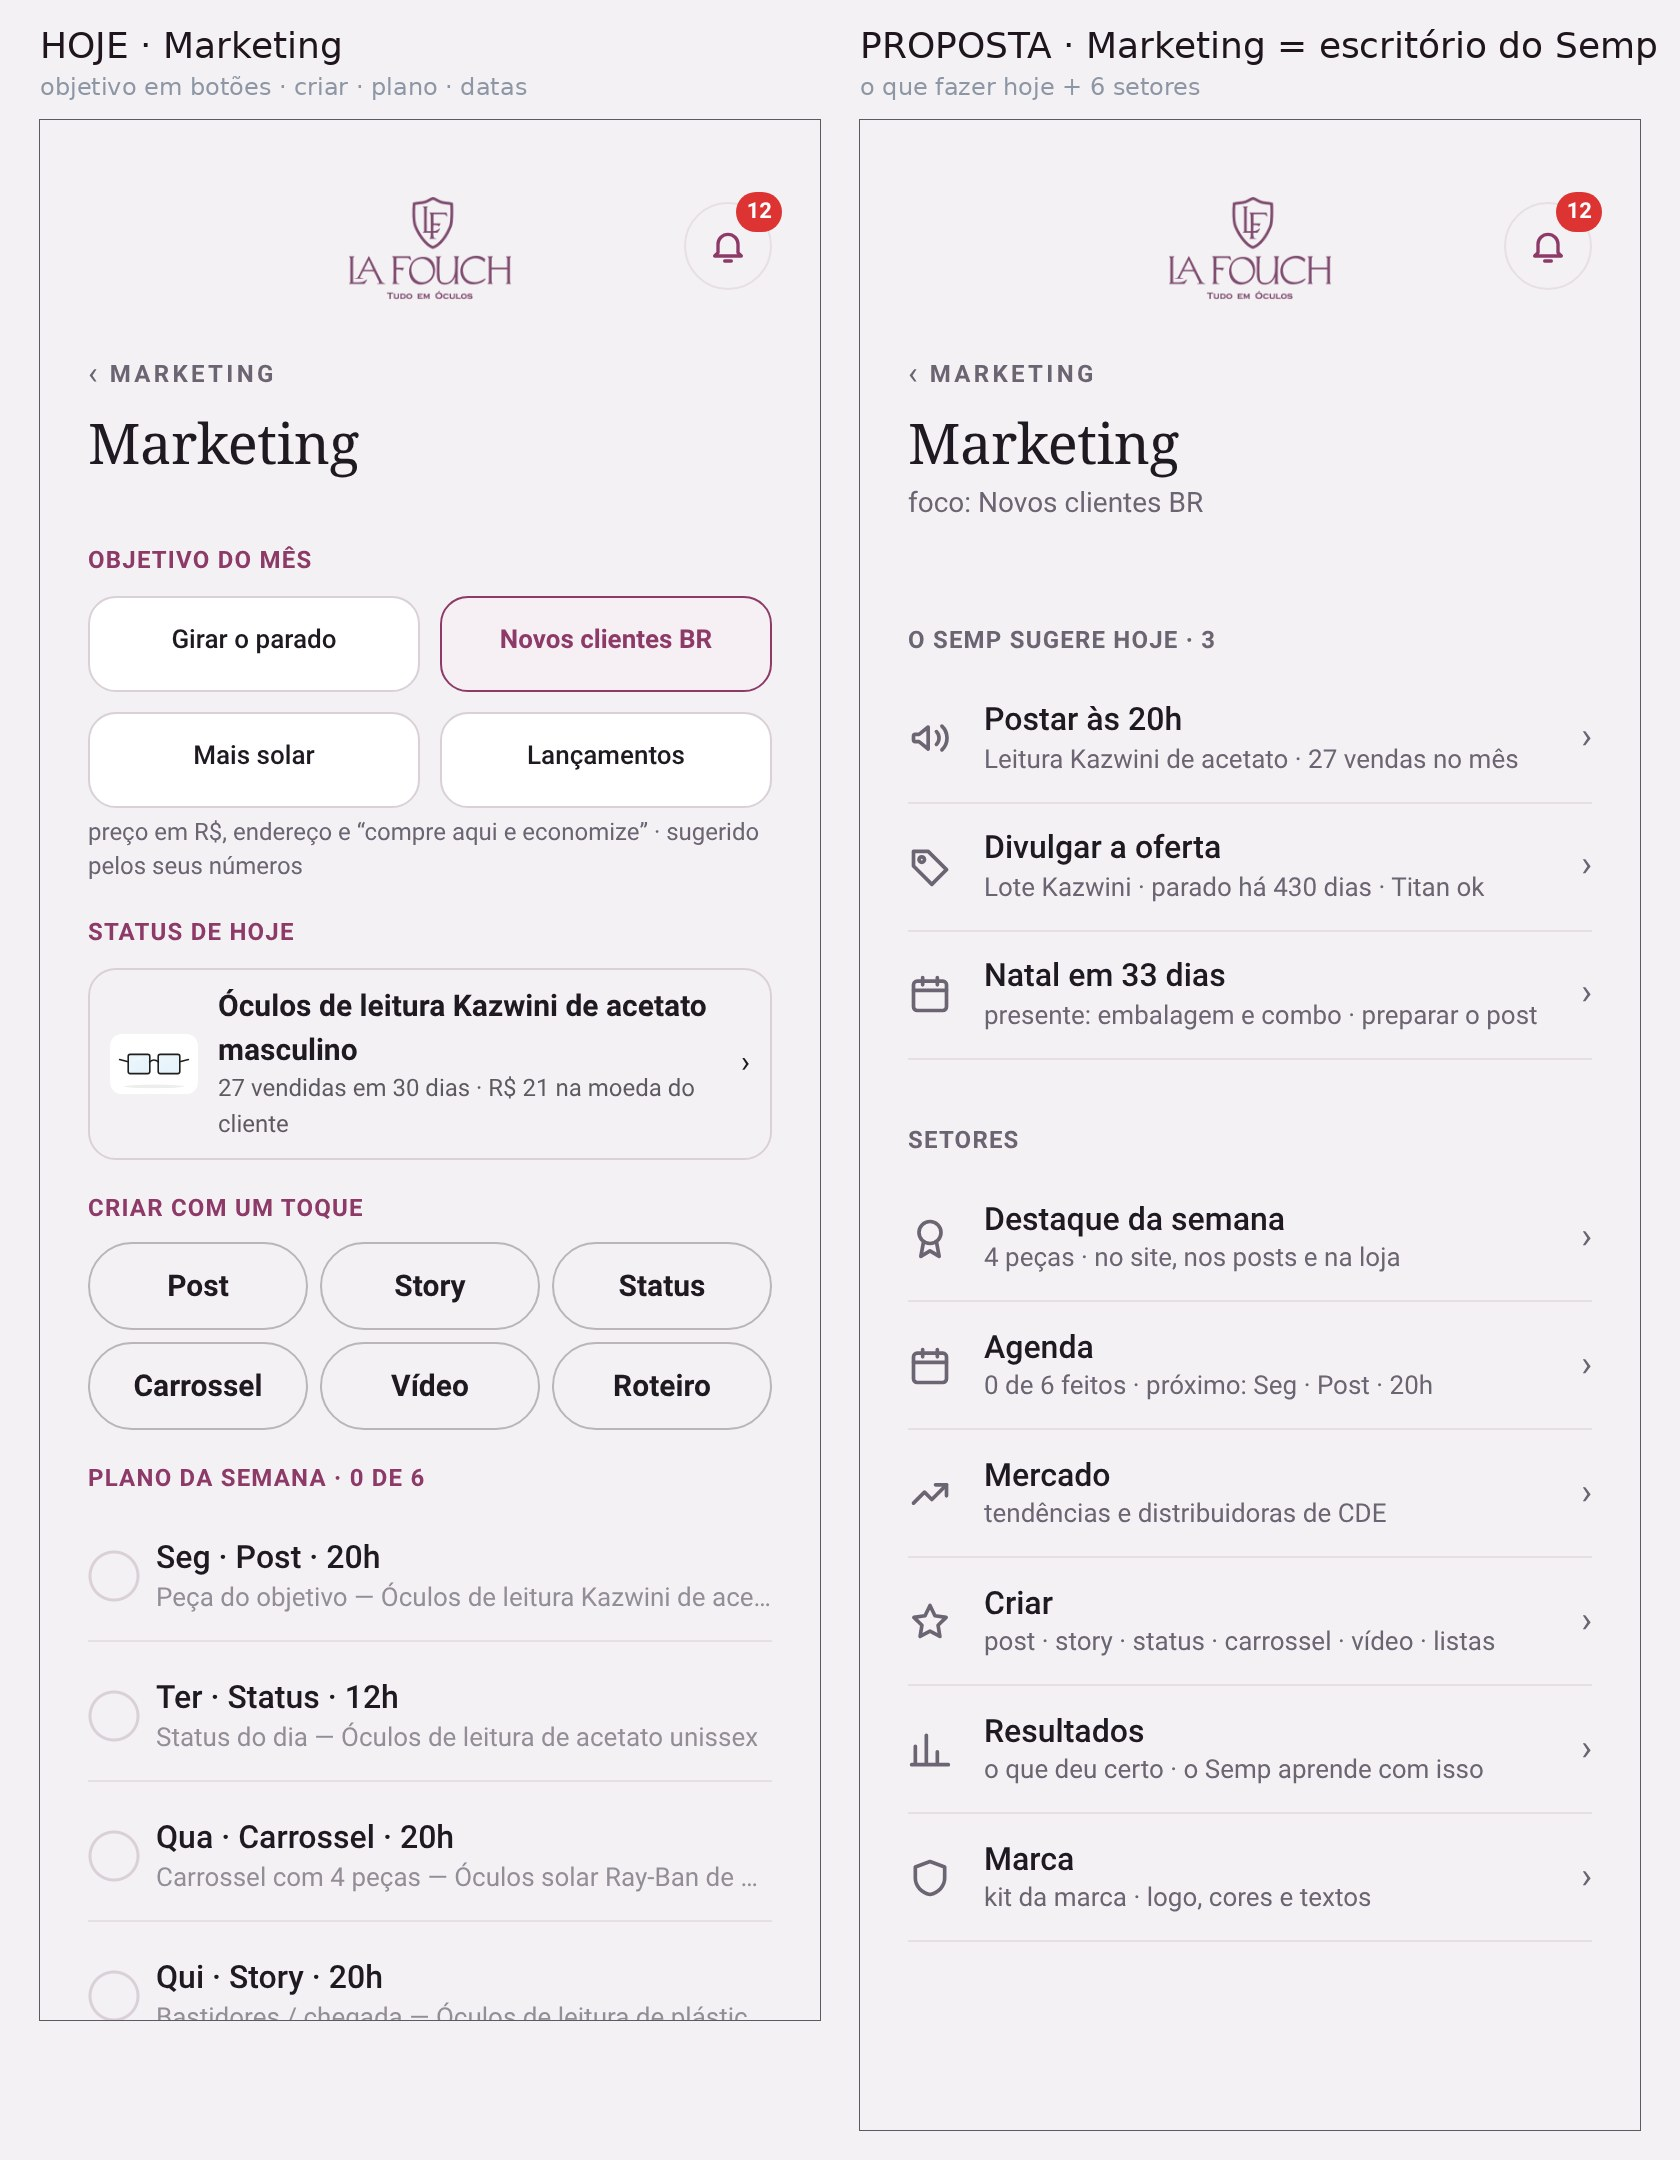
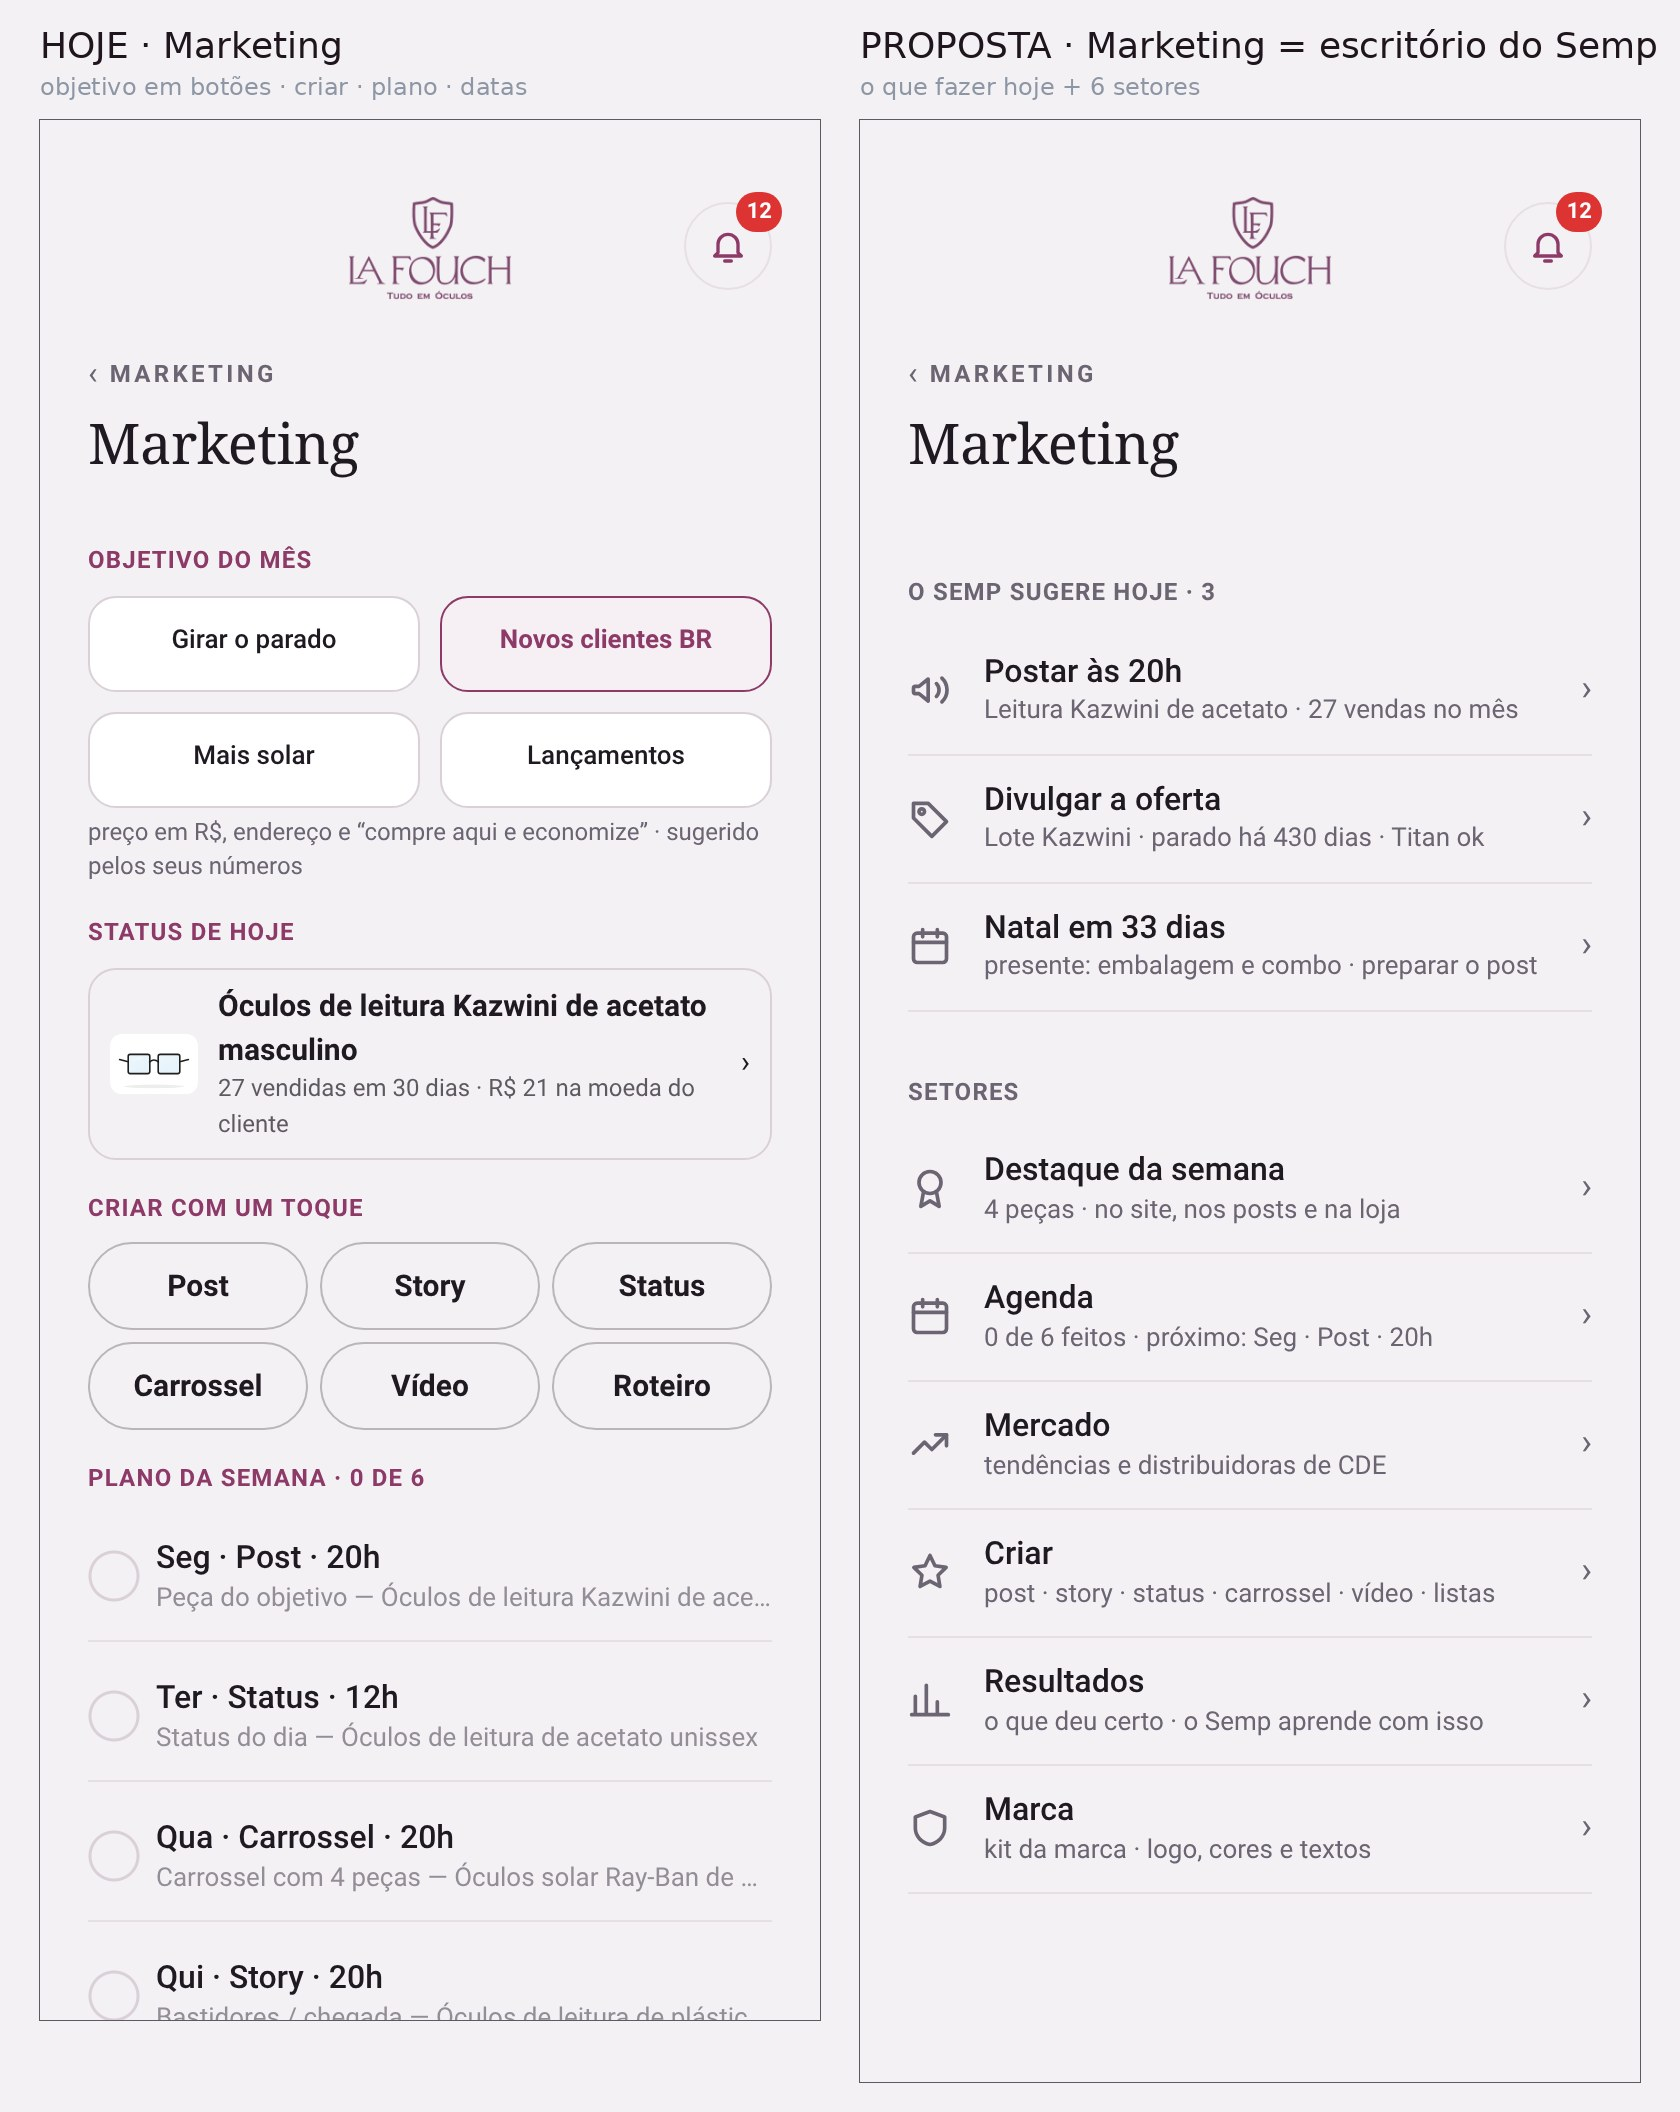
S435 esboço 70 sem descrição do foco
Claude-Session: https://claude.ai/code/session_01Vj5GPRt4UBskC3w8v52h7G

diff --git a/work/s435/semp/esboco_70.py b/work/s435/semp/esboco_70.py
@@ -33,7 +33,7 @@ const linha=(ic,t,s)=>'<div style="'+L+'">'+SV(ic)+'<div style="min-width:0;flex
 const tit=t=>'<div style="font-size:12px;font-weight:700;letter-spacing:.05em;text-transform:uppercase;color:var(--mute);margin:32px 0 8px">'+t+'</div>';
 const topo=v.querySelector('.top');
 [...v.children].forEach(e=>{if(e!==topo&&!e.contains(topo)&&!topo.contains(e)&&!e.classList.contains('nvVs'))e.remove()});
-const h=topo.querySelector('h1');const s=document.createElement('div');s.style.cssText='color:var(--mute);font-size:14px;margin-top:4px';s.textContent='foco: Novos clientes BR';h.after(s);
+
 const box=document.createElement('div');box.innerHTML=
 tit('O Semp sugere hoje · 3')+
 linha(I.mega,'Postar às 20h','Leitura Kazwini de acetato · 27 vendas no mês')+

diff --git a/docs/FALTA-APROVAR-15-11.md b/docs/FALTA-APROVAR-15-11.md
@@ -1145,3 +1145,4 @@ Não são esquecimento (estavam na lista, parados de propósito ou por ordem do 
 - 22/11 14:41 · DONO: "Aprovado" → COMO FAZER do TITAN completo APROVADO (work/s435/implementar/COMO-FAZER-TITAN.md: Parte 1 telas 52a/54/46b/62/63/64/65/65b/66/67 · Parte 2 motor: cotação da casa, mola, colchão, IVA, um custo só por compra, jeito do dono, atacado · Parte 3 segundo plano · ordem de entrega em 7 itens). Ainda SEM a palavra "implementar" (não entra na Fila). Testes: o dono vai sincronizar o celular real para testar tudo; perguntou se vale para PC e tablet.
 - 22/11 14:45 · ESBOCO corrigiu a si mesma: no 67 e no como fazer do Titan a porta aparecia como "Escritório do Titan"; pelo 54 aprovado o título é "Preços" (subtítulo "O escritório do Titan") → porta = "‹ Preços" › Histórico. Esboço 67 regerado; nada mais muda.
 - 22/11 14:46 · DONO: tirar descrições inúteis como "O escritório do Semp" → sai o subtítulo "O escritório do …" no Marketing (70) e no Preços (54/Titan); no Marketing fica só "foco: Novos clientes BR" (tocar troca o foco).
+- 22/11 14:47 · DONO: "meu foco é vender" → sai a descrição do foco embaixo de "Marketing" (70): o título fica sozinho. (O foco do mês aprovado em 20/11 15:54 deixa de aparecer na tela.)

diff --git a/docs/MEMORIA-PROJETO.md b/docs/MEMORIA-PROJETO.md
@@ -3647,3 +3647,4 @@ Testar TUDO, com muita calma, antes de dizer que está pronto ou de publicar: ca
 - 22/11 14:41 · DONO: "Aprovado" → COMO FAZER do TITAN completo APROVADO (work/s435/implementar/COMO-FAZER-TITAN.md: Parte 1 telas 52a/54/46b/62/63/64/65/65b/66/67 · Parte 2 motor: cotação da casa, mola, colchão, IVA, um custo só por compra, jeito do dono, atacado · Parte 3 segundo plano · ordem de entrega em 7 itens). Ainda SEM a palavra "implementar" (não entra na Fila). Testes: o dono vai sincronizar o celular real para testar tudo; perguntou se vale para PC e tablet.
 - 22/11 14:45 · ESBOCO corrigiu a si mesma: no 67 e no como fazer do Titan a porta aparecia como "Escritório do Titan"; pelo 54 aprovado o título é "Preços" (subtítulo "O escritório do Titan") → porta = "‹ Preços" › Histórico. Esboço 67 regerado; nada mais muda.
 - 22/11 14:46 · DONO: tirar descrições inúteis como "O escritório do Semp" → sai o subtítulo "O escritório do …" no Marketing (70) e no Preços (54/Titan); no Marketing fica só "foco: Novos clientes BR" (tocar troca o foco).
+- 22/11 14:47 · DONO: "meu foco é vender" → sai a descrição do foco embaixo de "Marketing" (70): o título fica sozinho. (O foco do mês aprovado em 20/11 15:54 deixa de aparecer na tela.)
